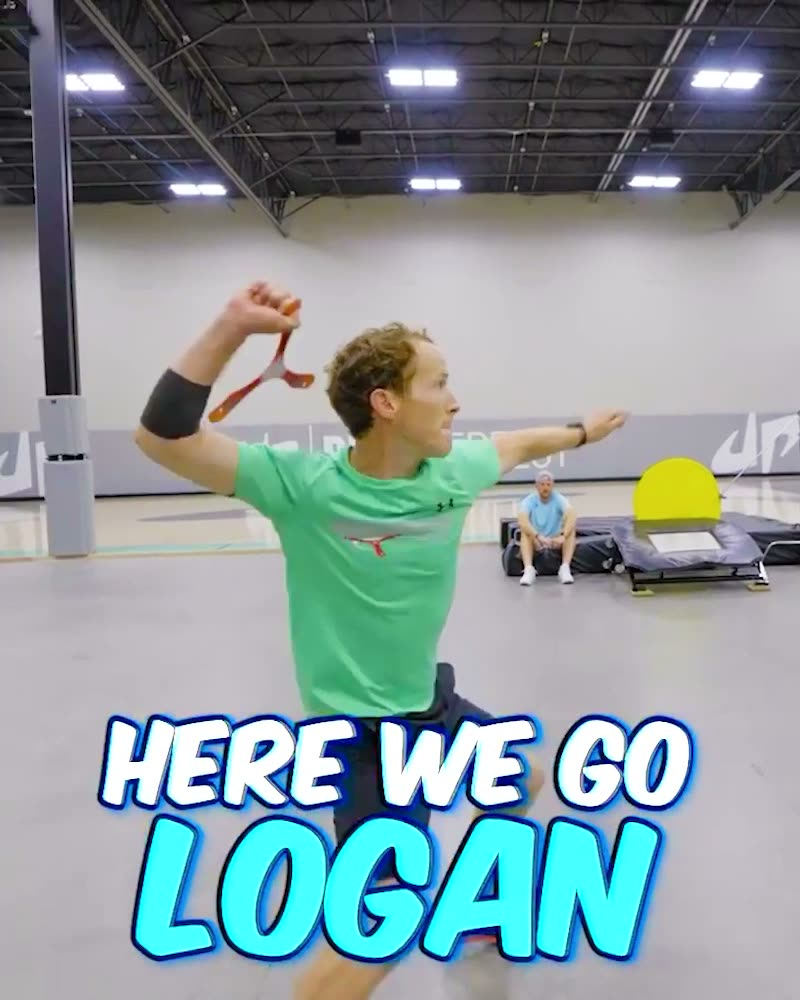
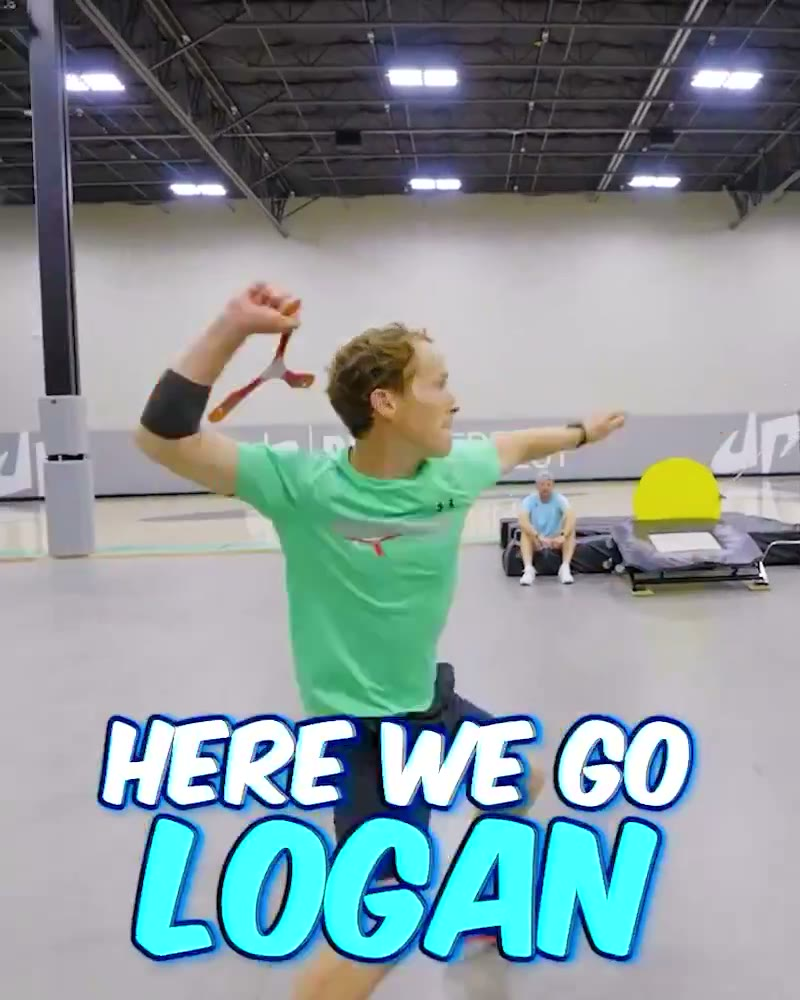
Improve video loading and hover previews

diff --git a/script.js b/script.js
@@ -5,6 +5,7 @@ const viewerTitle = document.querySelector(".viewer__title");
 const closeButton = document.querySelector(".viewer__close");
 const playableTiles = new Set();
 let priorityTile = null;
+let hoveredTile = null;
 const maxPreviewPlayers = 1;
 
 function primePreview(video) {
@@ -33,13 +34,56 @@ function unloadPreview(video) {
 }
 
 function playPreview(video) {
-  if (viewer.open) {
+  if (viewer.open || !video) {
     return;
   }
 
   primePreview(video);
   loadPreview(video);
   video.play().catch(() => {});
+}
+
+function activateTilePreview(tile, video) {
+  priorityTile = tile;
+  playableTiles.add(tile);
+  playPreview(video);
+}
+
+function releaseTilePreview(tile) {
+  if (priorityTile === tile) {
+    priorityTile = null;
+  }
+
+  schedulePreviews();
+}
+
+function activatePointPreview(event) {
+  const element = document.elementFromPoint(event.clientX, event.clientY);
+  const tile = element && element.closest ? element.closest(".tile") : null;
+
+  if (!tile || tile === hoveredTile) {
+    return;
+  }
+
+  if (hoveredTile) {
+    releaseTilePreview(hoveredTile);
+  }
+
+  hoveredTile = tile;
+  activateTilePreview(tile, tile.querySelector("video"));
+}
+
+function clearPointPreview(event) {
+  const element = document.elementFromPoint(event.clientX, event.clientY);
+  const tile = element && element.closest ? element.closest(".tile") : null;
+
+  if (!hoveredTile || tile === hoveredTile) {
+    return;
+  }
+
+  const tileToRelease = hoveredTile;
+  hoveredTile = null;
+  releaseTilePreview(tileToRelease);
 }
 
 function tileDistanceFromViewport(tile) {
@@ -95,6 +139,8 @@ function cleanupFarPreviews() {
 
 function unloadAllPreviews() {
   playableTiles.clear();
+  priorityTile = null;
+  hoveredTile = null;
 
   tiles.forEach((tile) => {
     const video = tile.querySelector("video");
@@ -147,6 +193,10 @@ const playbackObserver = new IntersectionObserver(
 
 tiles.forEach((tile) => {
   const video = tile.querySelector("video");
+  const tileButton = tile.querySelector("button");
+  const activate = () => activateTilePreview(tile, video);
+  const release = () => releaseTilePreview(tile);
+
   primePreview(video);
   preloadObserver.observe(tile);
   playbackObserver.observe(tile);
@@ -154,35 +204,23 @@ tiles.forEach((tile) => {
   video.addEventListener("loadeddata", schedulePreviews);
   video.addEventListener("canplay", schedulePreviews);
 
-  tile.addEventListener("pointerenter", () => {
-    priorityTile = tile;
-    playableTiles.add(tile);
-    playPreview(video);
-  });
+  tile.addEventListener("pointerenter", activate);
+  tile.addEventListener("pointerover", activate);
+  tile.addEventListener("pointerleave", release);
+  tile.addEventListener("mouseenter", activate);
+  tile.addEventListener("mouseover", activate);
+  tile.addEventListener("mousemove", activate);
+  tile.addEventListener("mouseleave", release);
 
-  tile.addEventListener("pointerleave", () => {
-    if (priorityTile === tile) {
-      priorityTile = null;
-    }
+  tileButton.addEventListener("pointerenter", activate);
+  tileButton.addEventListener("pointerover", activate);
+  tileButton.addEventListener("mouseenter", activate);
+  tileButton.addEventListener("mouseover", activate);
+  tileButton.addEventListener("mousemove", activate);
+  tileButton.addEventListener("focus", activate);
+  tileButton.addEventListener("blur", release);
 
-    schedulePreviews();
-  });
-
-  tile.addEventListener("focusin", () => {
-    priorityTile = tile;
-    playableTiles.add(tile);
-    playPreview(video);
-  });
-
-  tile.addEventListener("focusout", () => {
-    if (priorityTile === tile) {
-      priorityTile = null;
-    }
-
-    schedulePreviews();
-  });
-
-  tile.querySelector("button").addEventListener("click", () => {
+  tileButton.addEventListener("click", () => {
     const src = tile.dataset.video;
     const title = tile.querySelector("span").textContent + " / " + tile.querySelector("b").textContent;
 
@@ -199,11 +237,18 @@ tiles.forEach((tile) => {
   });
 });
 
+document.addEventListener("pointermove", activatePointPreview);
+document.addEventListener("mousemove", activatePointPreview);
+document.addEventListener("mouseout", clearPointPreview);
 window.addEventListener("load", schedulePreviews);
-window.addEventListener("scroll", () => {
-  schedulePreviews();
-  cleanupFarPreviews();
-}, { passive: true });
+window.addEventListener(
+  "scroll",
+  () => {
+    schedulePreviews();
+    cleanupFarPreviews();
+  },
+  { passive: true }
+);
 document.addEventListener("visibilitychange", schedulePreviews);
 setTimeout(schedulePreviews, 350);
 setTimeout(schedulePreviews, 1200);
@@ -228,8 +273,3 @@ viewer.addEventListener("cancel", (event) => {
   event.preventDefault();
   closeViewer();
 });
-
-
-
-
-

diff --git a/index.html b/index.html
@@ -19,8 +19,8 @@
       </header>
 
       <section class="reel-wall" aria-label="Selected video work">
-        <article class="tile tile--four-five tile--label-right" data-video="videos/Amanda Mccants Sizzle Reel.mp4">
-          <video data-src="videos/Amanda Mccants Sizzle Reel.mp4" poster="posters/Amanda Mccants Sizzle Reel.jpg" muted loop playsinline preload="metadata"></video>
+        <article class="tile tile--four-five tile--label-right" data-video="videos/Amanda Mccants Sizzle Reel 2.mp4">
+          <video data-src="videos/Amanda Mccants Sizzle Reel 2.mp4" poster="posters/Amanda Mccants Sizzle Reel 2.jpg" muted loop playsinline preload="metadata"></video>
           <button type="button" aria-label="Watch Amanda Mccants Sizzle Reel"><span>Amanda McCants</span><b>Sizzle Reel</b></button>
         </article>
         <article class="tile tile--four-five" data-video="videos/Dude Perfect Sizzle.mp4">
@@ -70,9 +70,13 @@
       <p class="viewer__title"></p>
     </dialog>
 
-    <script src="script.js"></script>
+    <script src="script.js?v=hover5"></script>
   </body>
 </html>
+
+
+
+
 
 
 